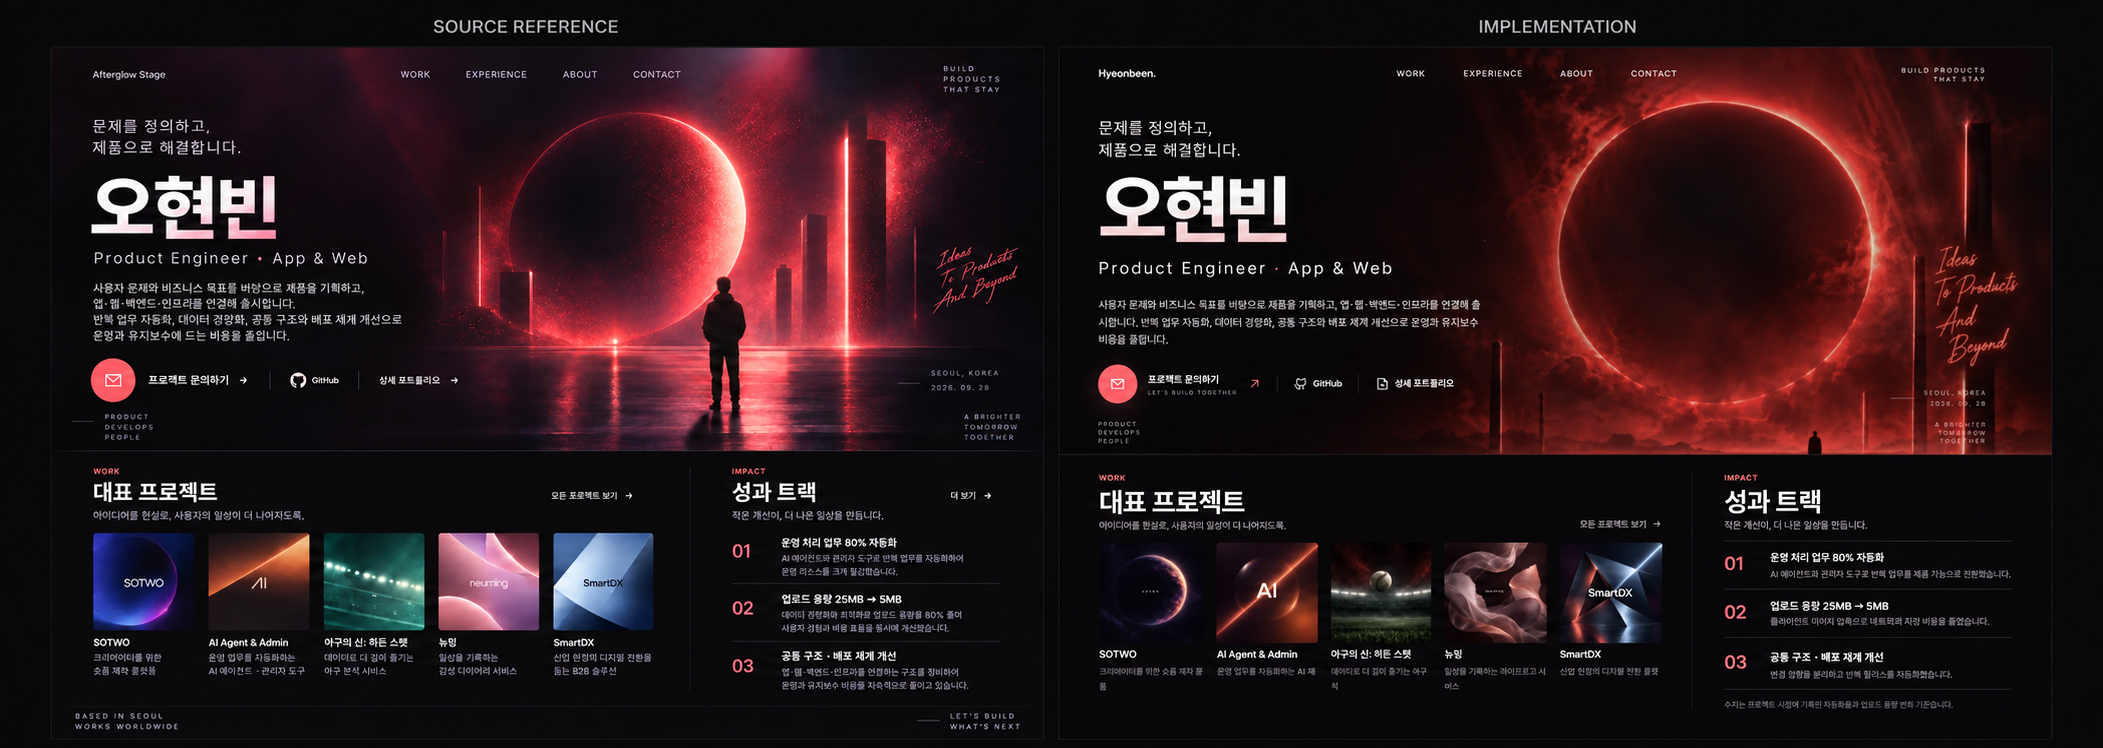
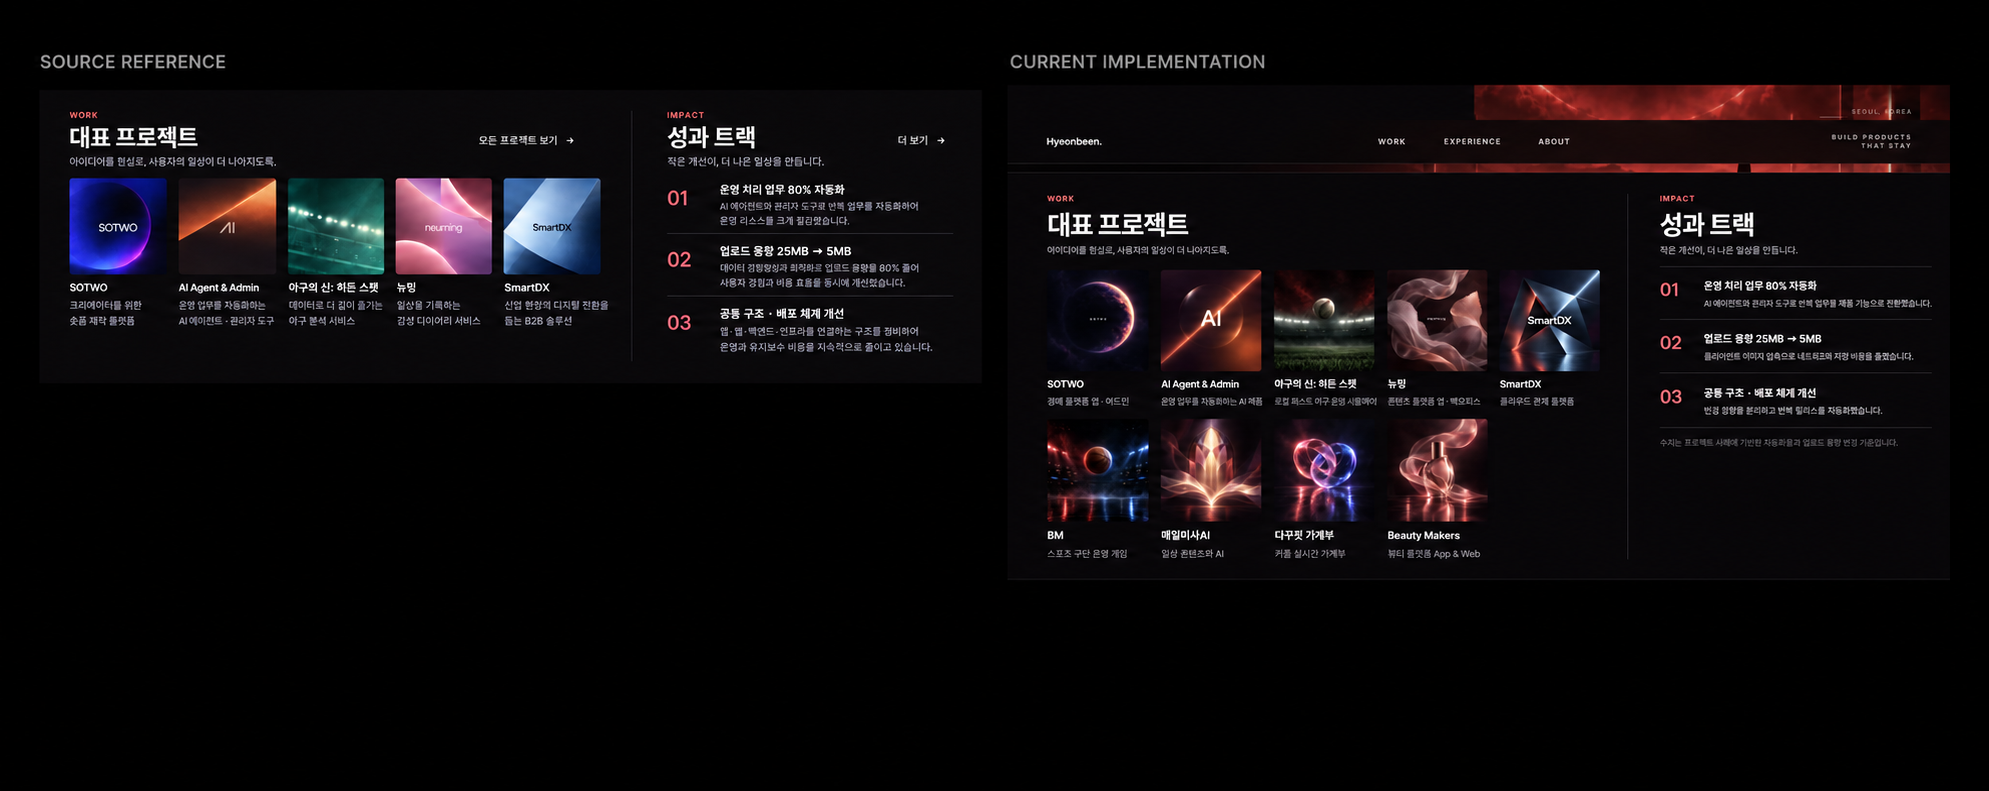
Unify all products in the featured grid

diff --git a/index.html b/index.html
@@ -31,7 +31,7 @@
       <div class="page-shell nav-wrap">
         <a class="brand" href="#top" aria-label="오현빈 포트폴리오 홈">Hyeonbeen.</a>
         <button class="menu-button" type="button" aria-expanded="false" aria-controls="primary-navigation" data-menu-button><span class="sr-only">메뉴 열기</span><span></span><span></span></button>
-        <nav id="primary-navigation" class="nav-links" aria-label="주요 메뉴" data-navigation><a href="#work">Work</a><a href="#experience">Experience</a><a href="#about">About</a><a href="#contact">Contact</a></nav>
+        <nav id="primary-navigation" class="nav-links" aria-label="주요 메뉴" data-navigation><a href="#work">Work</a><a href="#experience">Experience</a><a href="#about">About</a></nav>
         <p class="header-note" aria-hidden="true">Build products<br />that stay</p>
       </div>
     </header>
@@ -62,13 +62,17 @@
       <section id="work" class="work-section section" aria-labelledby="work-title">
         <div class="page-shell work-grid">
           <div class="work-catalog">
-            <div class="section-title-row reveal"><div><p class="eyebrow">Work</p><h2 id="work-title">대표 프로젝트</h2><p>아이디어를 현실로, 사용자의 일상이 더 나아지도록.</p></div><a href="#archive">모든 프로젝트 보기 <i class="ph ph-arrow-right" aria-hidden="true"></i></a></div>
+            <div class="section-title-row reveal"><div><p class="eyebrow">Work</p><h2 id="work-title">대표 프로젝트</h2><p>아이디어를 현실로, 사용자의 일상이 더 나아지도록.</p></div></div>
             <div class="cover-grid">
               <a class="project-cover reveal" href="https://www.notion.so/1f0341192d9480acb369c13b174ad9cd" target="_blank" rel="noopener noreferrer"><img src="assets/cover-sotwo.webp" width="1024" height="1024" loading="lazy" decoding="async" alt="SOTWO 프로젝트 아트워크" /><h3>SOTWO</h3><p>경매 플랫폼 앱·어드민</p></a>
               <a class="project-cover reveal" href="https://www.notion.so/27d341192d94804689e7ecd59fe33d39" target="_blank" rel="noopener noreferrer"><img src="assets/cover-ai-agent.webp" width="1024" height="1024" loading="lazy" decoding="async" alt="AI Agent &amp; Admin 프로젝트 아트워크" /><h3>AI Agent &amp; Admin</h3><p>운영 업무를 자동화하는 AI 제품</p></a>
               <a class="project-cover reveal" href="https://www.notion.so/3c7341192d94815e88e5e03edd919bac" target="_blank" rel="noopener noreferrer"><img src="assets/cover-baseball.webp" width="1024" height="1024" loading="lazy" decoding="async" alt="야구의 신 히든 스탯 프로젝트 아트워크" /><h3>야구의 신: 히든 스탯</h3><p>로컬 퍼스트 야구 운영 시뮬레이션</p></a>
               <a class="project-cover reveal" href="https://www.notion.so/86e33b69f6774809b49280b4a9e70673" target="_blank" rel="noopener noreferrer"><img src="assets/cover-newming.webp" width="1024" height="1024" loading="lazy" decoding="async" alt="뉴밍 프로젝트 아트워크" /><h3>뉴밍</h3><p>콘텐츠 플랫폼 앱·백오피스</p></a>
               <a class="project-cover reveal" href="https://www.notion.so/c5a99184c14f4c72825bd375e2ee156b" target="_blank" rel="noopener noreferrer"><img src="assets/cover-smartdx.webp" width="1024" height="1024" loading="lazy" decoding="async" alt="SmartDX 프로젝트 아트워크" /><h3>SmartDX</h3><p>클라우드 관제 플랫폼</p></a>
+              <a class="project-cover reveal" href="https://www.notion.so/3c7341192d948157b954e81f4aaab5fe" target="_blank" rel="noopener noreferrer"><img src="assets/cover-bm.webp" width="1024" height="1024" loading="lazy" decoding="async" alt="BM 프로젝트 아트워크" /><h3>BM</h3><p>스포츠 구단 운영 게임</p></a>
+              <a class="project-cover reveal" href="https://www.notion.so/3c7341192d9481798ddbc73867141237" target="_blank" rel="noopener noreferrer"><img src="assets/cover-daily-mass-ai.webp" width="1024" height="1024" loading="lazy" decoding="async" alt="매일미사AI 프로젝트 아트워크" /><h3>매일미사AI</h3><p>일상 콘텐츠와 AI</p></a>
+              <a class="project-cover reveal" href="https://www.notion.so/3c7341192d948199b964ebb212229bcc" target="_blank" rel="noopener noreferrer"><img src="assets/cover-dakkufit.webp" width="1024" height="1024" loading="lazy" decoding="async" alt="다꾸핏 가계부 프로젝트 아트워크" /><h3>다꾸핏 가계부</h3><p>커플 실시간 가계부</p></a>
+              <a class="project-cover reveal" href="https://www.notion.so/6407c78282d342a6becfc7e43655557b" target="_blank" rel="noopener noreferrer"><img src="assets/cover-beauty-makers.webp" width="1024" height="1024" loading="lazy" decoding="async" alt="Beauty Makers 프로젝트 아트워크" /><h3>Beauty Makers</h3><p>뷰티 플랫폼 App &amp; Web</p></a>
             </div>
           </div>
           <aside class="impact-panel reveal" aria-labelledby="impact-title">
@@ -104,19 +108,6 @@
         <div class="page-shell capability-strip reveal"><article><p>01</p><h3>App &amp; Native</h3><span>Flutter · Riverpod · iOS · Android</span></article><article><p>02</p><h3>Web &amp; Growth</h3><span>Next.js · Vue · SSR · SEO</span></article><article><p>03</p><h3>Cloud &amp; DevOps</h3><span>Firebase · AWS · Fastlane · Monitoring</span></article><article><p>04</p><h3>AI &amp; Automation</h3><span>Codex · Claude · Workflow Orchestration</span></article></div>
       </section>
 
-      <section id="archive" class="archive section" aria-labelledby="archive-title">
-        <div class="page-shell">
-          <div class="section-heading reveal"><p class="eyebrow">Also in the catalog</p><h2 id="archive-title">더 많은 제품</h2></div>
-          <div class="archive-list">
-            <a href="https://www.notion.so/3c7341192d948157b954e81f4aaab5fe" target="_blank" rel="noopener noreferrer"><span>01</span><strong>BM</strong><p>스포츠 구단 운영 게임</p><em>Flutter · OCI · IAP</em><i class="ph ph-arrow-up-right" aria-hidden="true"></i></a>
-            <a href="https://www.notion.so/3c7341192d9481798ddbc73867141237" target="_blank" rel="noopener noreferrer"><span>02</span><strong>매일미사AI</strong><p>일상 콘텐츠와 AI</p><em>Flutter · Firebase · FCM</em><i class="ph ph-arrow-up-right" aria-hidden="true"></i></a>
-            <a href="https://www.notion.so/3c7341192d948199b964ebb212229bcc" target="_blank" rel="noopener noreferrer"><span>03</span><strong>다꾸핏 가계부</strong><p>커플 실시간 가계부</p><em>Realtime Sync · Cloud</em><i class="ph ph-arrow-up-right" aria-hidden="true"></i></a>
-            <a href="https://www.notion.so/6407c78282d342a6becfc7e43655557b" target="_blank" rel="noopener noreferrer"><span>04</span><strong>Beauty Makers</strong><p>뷰티 플랫폼 App &amp; Web</p><em>Flutter · Vue · WebView</em><i class="ph ph-arrow-up-right" aria-hidden="true"></i></a>
-          </div>
-        </div>
-      </section>
-
-      <section id="contact" class="contact section" aria-labelledby="contact-title"><div class="page-shell contact-layout reveal"><div><p class="eyebrow">Available now</p><h2 id="contact-title">출시까지 책임질 사람이<br />필요한가요?</h2><p>원격 프로젝트와 Product Engineer 포지션 모두 열려 있습니다.</p></div><a class="contact-orb" href="mailto:devhenryoh99@gmail.com"><i class="ph ph-envelope-simple" aria-hidden="true"></i><span>프로젝트<br />문의하기</span></a></div></section>
     </main>
 
     <footer class="site-footer"><div class="page-shell footer-wrap"><p>© <span data-year></span> Hyeonbeen Oh</p><div><a href="https://github.com/HenryDev99" target="_blank" rel="noopener noreferrer">GitHub</a><a href="https://velog.io/@hb_een/posts" target="_blank" rel="noopener noreferrer">Velog</a><a href="mailto:devhenryoh99@gmail.com">Email</a></div><p>BASED IN SEOUL<br />WORKS WORLDWIDE</p></div></footer>

diff --git a/style.css b/style.css
@@ -130,25 +130,6 @@ button, a { -webkit-tap-highlight-color: transparent; }
 .capability-strip h3 { margin: 0 0 8px; font-family: var(--display); font-size: 18px; }
 .capability-strip span { color: #75686e; font-family: var(--display); font-size: 11px; line-height: 1.6; }
 
-.archive { background: var(--bg-elevated); }
-.archive-list { border-top: 1px solid var(--line); }
-.archive-list a { display: grid; grid-template-columns: 60px 1.2fr 1fr 1fr 28px; gap: 28px; align-items: center; min-height: 86px; border-bottom: 1px solid var(--line); text-decoration: none; transition: color 0.2s ease, padding 0.2s ease; }
-.archive-list a:hover { padding: 0 14px; color: var(--accent-bright); }
-.archive-list span { color: var(--accent-bright); font-family: var(--display); font-size: 12px; }
-.archive-list strong { font-family: var(--display); font-size: 20px; }
-.archive-list p { margin: 0; color: var(--muted); font-size: 14px; }
-.archive-list em { color: var(--quiet); font-family: var(--display); font-size: 11px; font-style: normal; }
-.archive-list i { font-size: 18px; }
-
-.contact { padding-top: 150px; padding-bottom: 150px; overflow: hidden; background: #0c080b; }
-.contact-layout { display: grid; grid-template-columns: 1fr auto; gap: 80px; align-items: center; }
-.contact h2 { font-size: clamp(48px, 7vw, 96px); }
-.contact-layout > div > p:last-child { margin: 26px 0 0; color: var(--muted); font-size: 17px; }
-.contact-orb { display: grid; width: clamp(170px, 18vw, 245px); aspect-ratio: 1; place-items: center; align-content: center; gap: 14px; border-radius: 50%; background: var(--accent); color: white; text-align: center; text-decoration: none; box-shadow: 0 28px 80px rgba(255, 68, 83, 0.24); transition: transform 0.3s ease, background 0.3s ease; }
-.contact-orb:hover, .contact-orb:focus-visible { transform: scale(1.05) rotate(-3deg); background: var(--accent-bright); }
-.contact-orb i { font-size: 33px; }
-.contact-orb span { font-size: 16px; font-weight: 700; line-height: 1.45; }
-
 .site-footer { padding: 34px 0; border-top: 1px solid var(--line-soft); background: #070506; }
 .footer-wrap { display: grid; grid-template-columns: 1fr auto 1fr; align-items: center; color: var(--quiet); font-family: var(--display); font-size: 10px; letter-spacing: 0.1em; }
 .footer-wrap p { margin: 0; }
@@ -180,7 +161,7 @@ button, a { -webkit-tap-highlight-color: transparent; }
   .hero-meta { display: none; }
   .hero-art { object-position: 62% center; opacity: 0.9; }
   .hero-shade { background: linear-gradient(90deg, rgba(8, 5, 7, 0.94), rgba(8, 5, 7, 0.7) 55%, rgba(8, 5, 7, 0.16)); }
-  .cover-grid { grid-template-columns: repeat(5, 190px); overflow-x: auto; padding-bottom: 18px; scroll-snap-type: x mandatory; }
+  .cover-grid { grid-template-columns: repeat(9, 190px); overflow-x: auto; padding-bottom: 18px; scroll-snap-type: x mandatory; }
   .project-cover { scroll-snap-align: start; }
   .experience-row { grid-template-columns: 150px minmax(0, 1fr) 44px; }
   .experience-row > p { grid-column: 2; }
@@ -191,8 +172,6 @@ button, a { -webkit-tap-highlight-color: transparent; }
   .capability-strip article:nth-child(2) { border-right: 0; }
   .capability-strip article:nth-child(-n + 2) { border-bottom: 1px solid rgba(22, 15, 19, 0.22); }
   .capability-strip article:nth-child(3) { padding-left: 0; }
-  .archive-list a { grid-template-columns: 50px 1fr 1fr 28px; }
-  .archive-list em { display: none; }
 }
 
 @media (max-width: 720px) {
@@ -223,7 +202,7 @@ button, a { -webkit-tap-highlight-color: transparent; }
   .work-section { padding-top: 28px; padding-bottom: 34px; }
   .section-title-row { align-items: start; }
   .section-title-row > a { margin-top: 28px; }
-  .cover-grid { grid-template-columns: repeat(5, 158px); gap: 15px; margin-right: calc(var(--edge) * -1); }
+  .cover-grid { grid-template-columns: repeat(9, 158px); gap: 15px; margin-right: calc(var(--edge) * -1); }
   .impact-list { grid-template-columns: 1fr; }
   .impact-list li { border-right: 0; }
   .experience-row { grid-template-columns: 1fr 42px; gap: 14px 18px; padding: 28px 0; }
@@ -237,13 +216,6 @@ button, a { -webkit-tap-highlight-color: transparent; }
   .capability-strip article { padding: 23px 0; border-right: 0; border-bottom: 1px solid rgba(22, 15, 19, 0.22); }
   .capability-strip article:last-child { border-bottom: 0; }
   .capability-strip p { margin-bottom: 12px; }
-  .archive-list a { grid-template-columns: 40px 1fr 24px; gap: 12px; padding: 17px 0; }
-  .archive-list a:hover { padding: 17px 8px; }
-  .archive-list p, .archive-list em { display: none; }
-  .contact { padding: 100px 0; }
-  .contact-layout { grid-template-columns: 1fr; gap: 54px; }
-  .contact h2 { font-size: clamp(44px, 14vw, 68px); }
-  .contact-orb { justify-self: end; width: 170px; }
   .footer-wrap { grid-template-columns: 1fr auto; gap: 20px; }
   .footer-wrap div { grid-column: 1 / 3; grid-row: 2; justify-content: space-between; padding-top: 20px; border-top: 1px solid var(--line-soft); }
 }
@@ -255,7 +227,7 @@ button, a { -webkit-tap-highlight-color: transparent; }
 }
 
 @media print {
-  .site-header, .hero-actions, .contact-orb, .row-toggle { display: none; }
+  .site-header, .hero-actions, .row-toggle { display: none; }
   .hero { min-height: 520px; }
   .reveal { opacity: 1; transform: none; }
 }

diff --git a/design-qa.md b/design-qa.md
@@ -5,9 +5,9 @@
 - Source of visual truth: `assets/design-reference.png` (1487 × 1058 px), the user-selected first concept after removing the OH monogram.
 - Browser implementation: `http://localhost:4173/`, captured in the Codex in-app browser at a 1440 × 1024 CSS-pixel viewport.
 - Side-by-side evidence: `assets/design-comparison-final.png` (source on the left, implementation on the right).
-- Focused region evidence: the browser-rendered `#work` section was inspected at 1440 × 1024 and 390 × 844; all five `.project-cover img` elements measured exactly 1:1 after the fix.
+- Focused region evidence: the browser-rendered `#work` section was inspected at 1440 × 1024 and 390 × 844; all nine `.project-cover img` elements measured exactly 1:1 after the fix.
 - State compared: desktop first fold, navigation closed, experience rows collapsed.
-- Responsive verification: 390 × 844 CSS pixels, navigation both closed and open.
+- Responsive verification: 390 × 844 CSS pixels, navigation both closed and open, with the nine-card project shelf horizontally scrollable.
 
 ## Iterations
 
@@ -15,21 +15,23 @@
 2. P2 — The right-side metadata collided with the script and footer copy. Reduced it to the source-aligned location/date block and anchored it above the footer.
 3. Post-fix pass — Rechecked the desktop first fold, the mobile hero, open mobile navigation, image loading, document width, and browser console.
 4. P2 — Explicit `width` and `height` attributes were preserving a 1024 px rendered height after the card width became responsive, producing tall covers. Added `height: auto` with `aspect-ratio: 1 / 1`. Post-fix evidence measured every cover at 149.45 × 149.45 px on desktop and 158 × 158 px on mobile.
+5. User-directed content pass — Moved BM, 매일미사AI, 다꾸핏 가계부, and Beauty Makers into the representative-project grid, generated four matching square covers, and removed the separate “더 많은 제품” and “출시까지 책임질 사람이 필요한가요?” sections. Post-fix evidence found nine project cards, no `#archive` or `#contact` section, and no stale Contact navigation link.
 
 ## Surface review
 
-- Layout and spacing: source hierarchy and two-column first fold are preserved; header, hero, project catalogue, and impact panel align without overlap. Every representative-project cover now renders as an exact square.
+- Layout and spacing: source hierarchy and two-column first fold are preserved; header, hero, project catalogue, and impact panel align without overlap. All nine representative-project covers render as exact squares in a balanced five-plus-four desktop grid.
 - Typography: Inter and Noto Sans KR reproduce the compact editorial hierarchy and Korean display scale.
 - Color and imagery: near-black/plum base, crimson highlight, eclipse hero, and square release-style project art match the selected direction. All artwork is stored as raster image assets rather than recreated with layout primitives.
-- Content: portfolio copy, project links, impact figures, experience, contact routes, and structured metadata remain present.
+- Content: all nine project links now appear in the representative-project catalogue; impact figures, experience, hero contact route, footer contact route, and structured metadata remain present.
 - Responsiveness: no horizontal document overflow at 390 px; navigation expands and collapses correctly; project cards remain intentionally horizontally scrollable.
 - Accessibility: semantic headings and landmarks, skip link, keyboard-focus states, descriptive image alt text, accessible menu and disclosure state, and reduced-motion handling are present.
 - Runtime: every referenced image completed with a non-zero natural width; browser console reported no warnings or errors.
-- Performance: the six visible artwork files use WebP; the total loaded artwork weight is under 0.5 MB.
+- Performance: all visible artwork files use WebP; the total loaded artwork weight remains under 1 MB.
 - Branding check: the OH monogram was removed from the page and favicon. The full personal name remains only where semantically appropriate.
 
 ## Residual variance
 
 - P3 — The implementation uses original generated hero and project artwork in the approved art direction rather than pixel-identical concept artwork. This is intentional and does not affect hierarchy or usability.
+- P3 — The approved source mock showed five project covers in one row; the user-directed nine-project catalogue uses five covers on the first desktop row and four on the second. Mobile preserves the established horizontal shelf behavior.
 
 final result: passed
